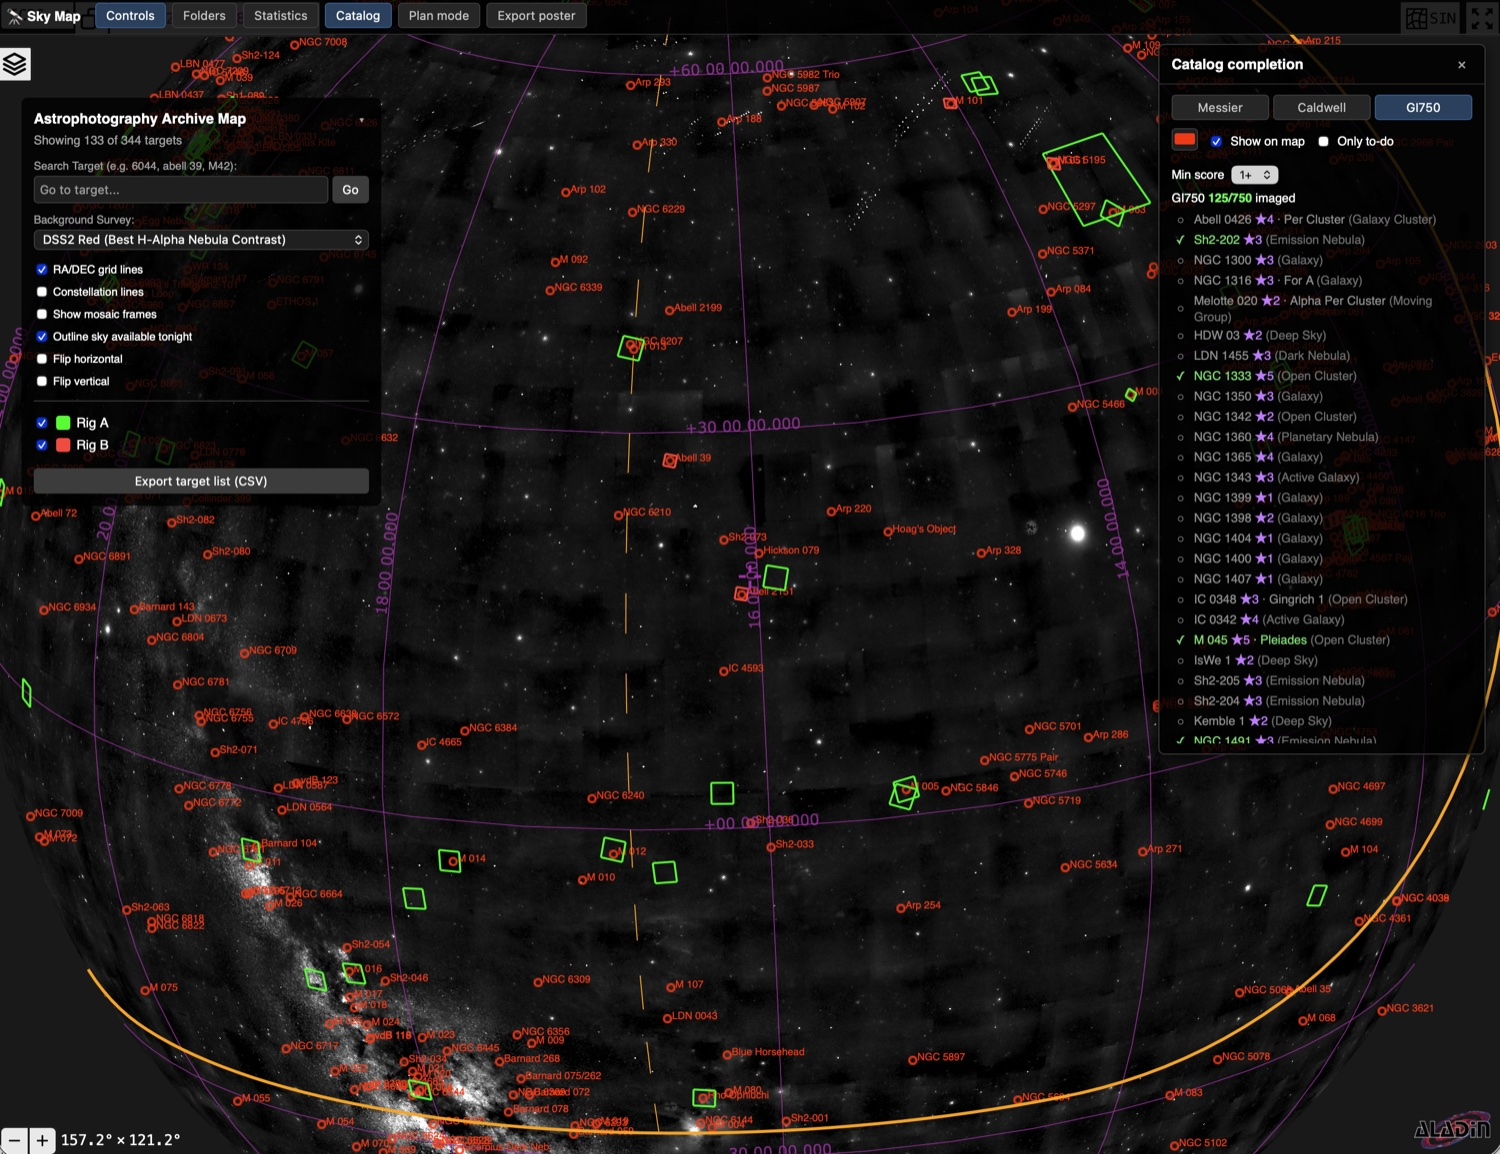
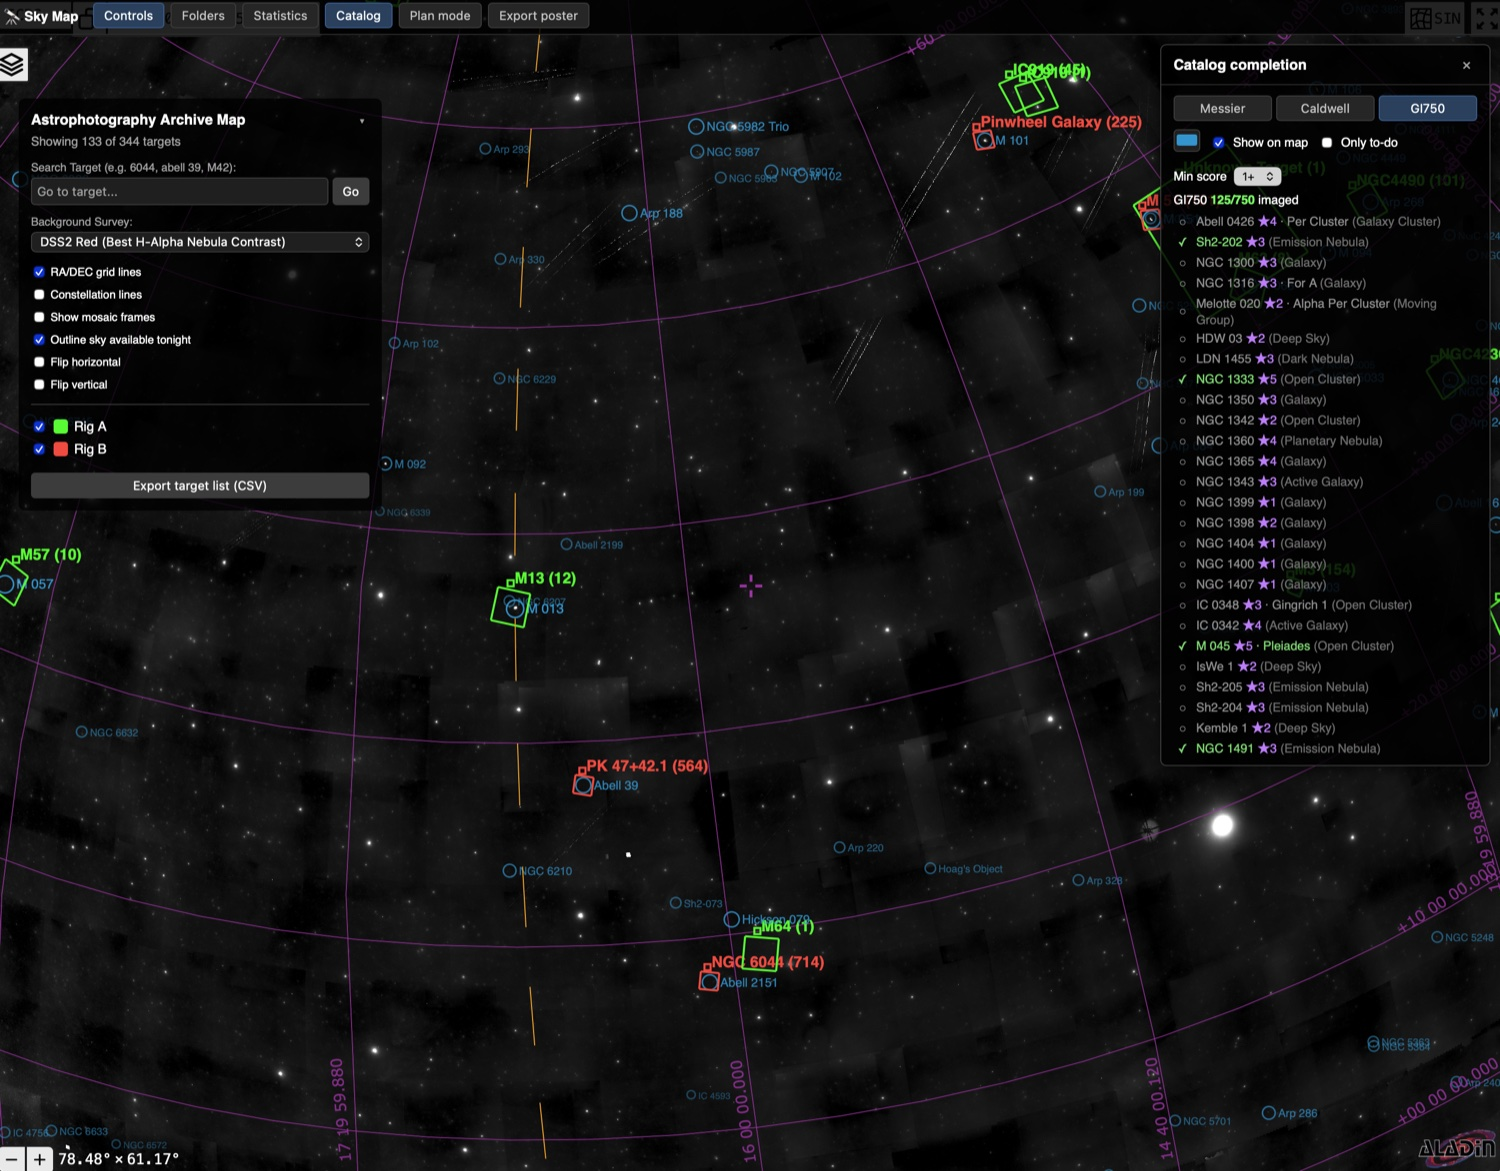
Scale GI750 map markers by score (brighter = higher)
GI750 markers are now drawn per-source by quality score: higher scores are
more opaque and slightly larger (score 5 = full opacity / 8.4px, score 1 =
0.4 opacity / 4px floor so it stays visible). Brightness is derived from the
root color, so the per-catalog color picker still works, and labels hide at
wide fields (> labelHideFov) to avoid clutter, reappearing when zoomed in.

Also refresh screenshots/catalog_completion.jpg to show the score gradient.

diff --git a/template.html b/template.html
@@ -1315,12 +1315,50 @@
                 }
                 return best ? (best.desig || best.id) : null;
             }
+            // GI750 markers are drawn by score so the best targets stand out: higher
+            // scores are brighter (more opaque) and slightly larger. Everything is
+            // derived from the root color (catColors.G), so the color picker still
+            // works; score 1 keeps a visible floor opacity.
+            function giScoreStyle(score) {
+                const s = Math.max(1, Math.min(5, score || 1));
+                return {
+                    alpha: 0.4 + (s - 1) / 4 * 0.6,   // 0.40 (score 1) … 1.0 (score 5)
+                    radius: 4 + (s - 1) * 1.1,        // 4px … 8.4px
+                    font: Math.round(9 + (s - 1) * 0.9) + 'px sans-serif'   // 9px … 13px
+                };
+            }
+            function giDrawSource(source, ctx) {
+                if (source.x === undefined) return;   // off-screen sources have no canvas pos
+                const st = giScoreStyle(source.data && source.data.score);
+                ctx.save();
+                ctx.globalAlpha = st.alpha;
+                ctx.strokeStyle = catColors.G;
+                ctx.fillStyle = catColors.G;
+                ctx.lineWidth = 1.5;
+                ctx.beginPath();
+                ctx.arc(source.x, source.y, st.radius, 0, 2 * Math.PI);
+                ctx.stroke();
+                // Labels only when zoomed in enough (matches the footprint label rule),
+                // otherwise 750 names overlap into noise at wide fields.
+                let fovWide = false;
+                try { fovWide = aladin.getFov()[0] > SETTINGS.labelHideFov; } catch (e) {}
+                if (!fovWide && source.data && source.data.name) {
+                    ctx.font = st.font;
+                    ctx.fillText(source.data.name, source.x + st.radius + 3, source.y + 4);
+                }
+                ctx.restore();
+            }
             function makeCatLayer(cat) {
-                const layer = A.catalog({
-                    name: 'cat-' + cat, sourceSize: 9, shape: 'circle',
-                    color: catColors[cat], displayLabel: true,
+                const opts = {
+                    name: 'cat-' + cat, sourceSize: 9, color: catColors[cat],
                     labelColumn: 'name', labelColor: catColors[cat], labelFont: '10px sans-serif'
-                });
+                };
+                if (cat === 'G') {                    // per-source draw handles markers + labels
+                    opts.shape = giDrawSource; opts.displayLabel = false;
+                } else {
+                    opts.shape = 'circle'; opts.displayLabel = true;
+                }
+                const layer = A.catalog(opts);
                 aladin.addCatalog(layer);
                 return layer;
             }
@@ -1334,7 +1372,9 @@
                     if (cat === 'G' && (o.score || 0) < catScoreMin) continue;
                     // GI750 uses the real object name as its label; M/C keep their
                     // recognizable catalog ids (M1, C11) rather than the resolved desig.
-                    src.push(A.source(o.ra, o.dec, { name: cat === 'G' ? (o.desig || o.id) : o.id }));
+                    src.push(cat === 'G'
+                        ? A.source(o.ra, o.dec, { name: o.desig || o.id, score: o.score })
+                        : A.source(o.ra, o.dec, { name: o.id }));
                 }
                 if (src.length) layer.addSources(src);
             }